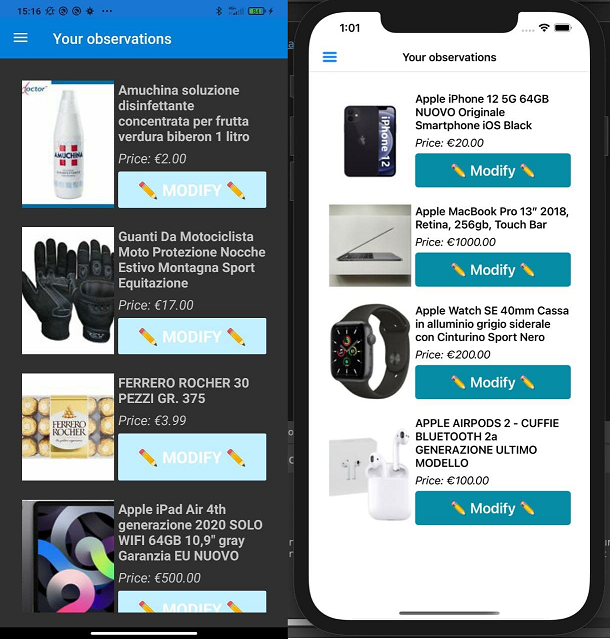
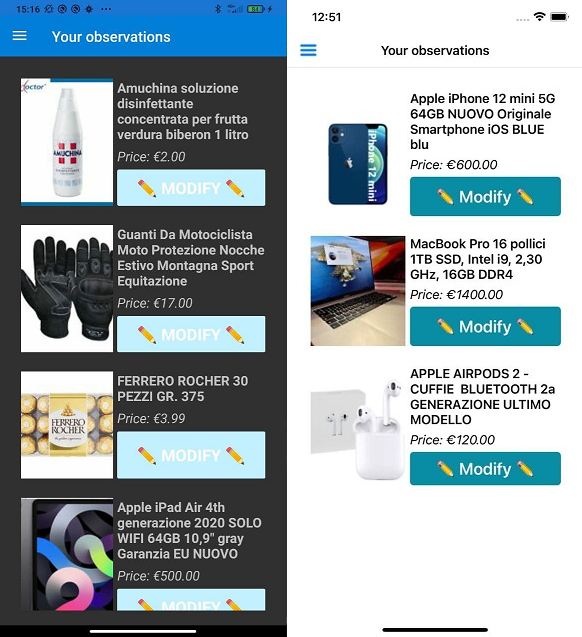
Update images + Fixed button size

diff --git a/Xamarin/XamarinFrontEnd/RecommendationPage.xaml b/Xamarin/XamarinFrontEnd/RecommendationPage.xaml
@@ -16,8 +16,7 @@
                             <Grid.RowDefinitions>
                                 <RowDefinition Height="Auto" />
                                 <RowDefinition Height="Auto" />
-                                <RowDefinition Height="Auto" />
-                                <RowDefinition Height="Auto" />
+                                <RowDefinition Height="60" />
                             </Grid.RowDefinitions>
                             <Grid.ColumnDefinitions>
                                 <ColumnDefinition Width="Auto" />

diff --git a/Xamarin/XamarinFrontEnd/UserObservations.xaml b/Xamarin/XamarinFrontEnd/UserObservations.xaml
@@ -12,8 +12,7 @@
                             <Grid.RowDefinitions>
                                 <RowDefinition Height="Auto" />
                                 <RowDefinition Height="Auto" />
-                                <RowDefinition Height="Auto" />
-                                <RowDefinition Height="Auto" />
+                                <RowDefinition Height="60" />
                             </Grid.RowDefinitions>
                             <Grid.ColumnDefinitions>
                                 <ColumnDefinition Width="Auto" />
